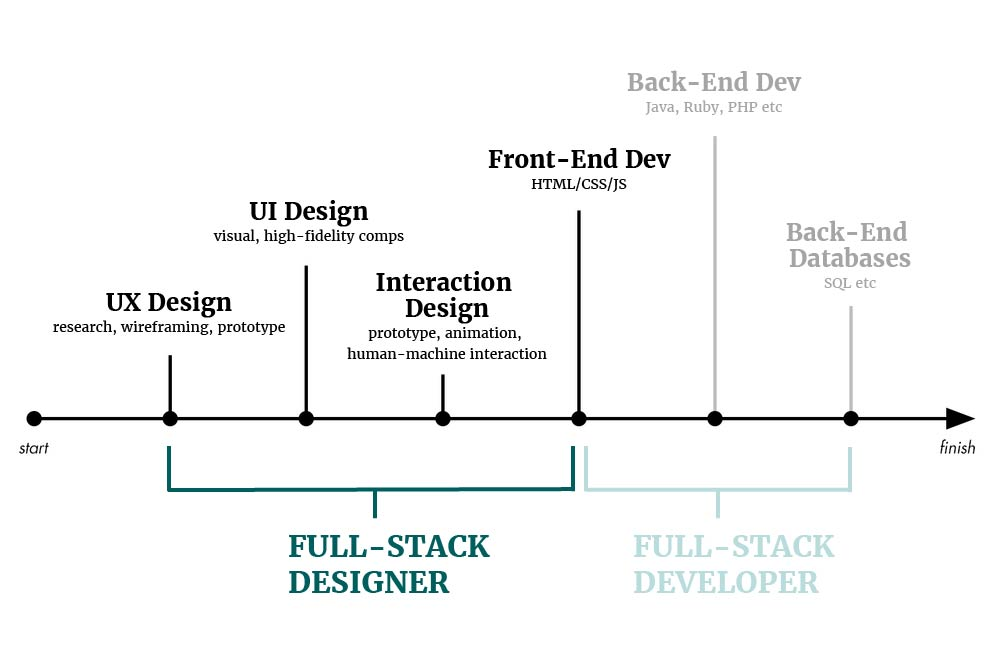
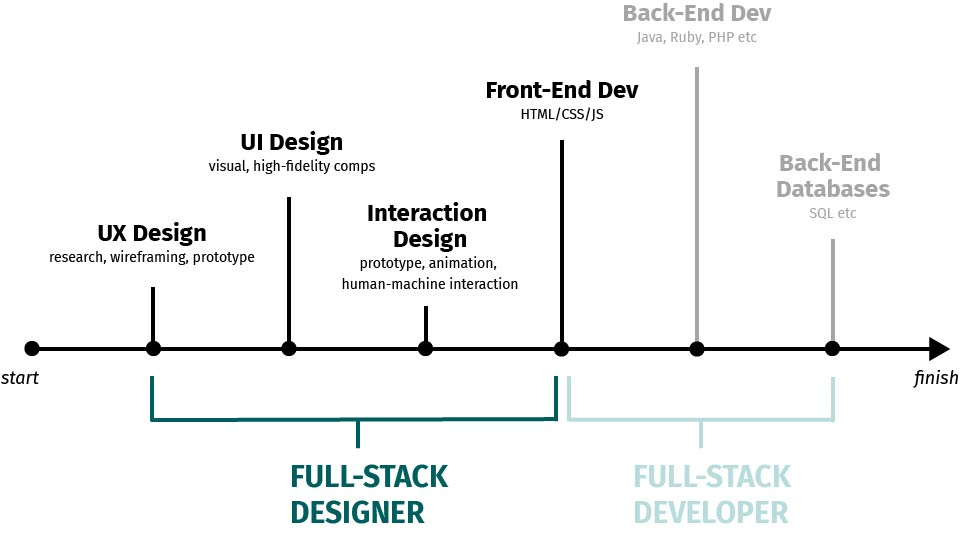
changed font

Changed region(s): [[0.0, 0.0, 1.0, 0.9888]]

diff --git a/index.html b/index.html
@@ -7,7 +7,7 @@
   </head>
   <body>
     <div id='mainContainer'>
-      <section id='cta' class='container'>
+      <section id='cta' class='container bg'>
         <nav>
           <a href='#cta'>Jocelyn</a>
           <div class="topnav-right">
@@ -18,7 +18,7 @@
           </div>
         </nav>
         <div class='tagline'>
-          <h1>Jocelyn Tan</h1>
+          <h1>JOCELYN TAN</h1>
           <p>A Front End Web Developer interested in UX/UI<br>based in Singapore</p>
         </div>
       </section>
@@ -29,20 +29,20 @@
           <p>After that, I did an internship where I helped create a data visualization dashboard for Kantar market research agency based on their purchase funnel data. I honed my skills on Javascript architecture as well as code optimization.</p>
           <p>Visuals make me excited and thus I am happy creating images on Photoshop / Illustrator and animating websites with Javascript.
           I am always catching up on the latest web technologies and learning about interaction design.</p>
-          <img src='/images/designer.jpg' />
         </div>
         <div class='rightColumn'>
           <p>In my free time I play on my digital piano, learn foreign languages and fly off to various beaches around South East Asia for water sports.</p>
-          <div class='image'>
+          <img src='/images/designer.jpg' />
+          <!-- <div class='image'>
             <p>Thalassophile (n.) Lover of the sea</p>
-          </div>
+          </div> -->
         <div>
       </section>
-      <section id='skills' class='container'>
+      <section id='skills' class='container bg'>
       </section>
       <section id='portfolio' class='container'>
       </section>
-      <footer id='contact' class='container'>
+      <footer id='contact' class='container bg'>
       </footer>
     </div>
     <script src="/jquery-3.3.1.min.js"></script>

diff --git a/style.css b/style.css
@@ -14,13 +14,15 @@ html, body {
 .container {
   padding: 2% 8%;
 }
+.bg {
+  background-color: #E7F3F3;
+}
 
 /* Navigation bar */
 nav > a {
   float: left;
   text-decoration: none;
   font-size: 1.3rem;
-  font-family: 'Merriweather', serif;
   padding: 1% 2% 1% 0;
 }
 nav .topnav-right {
@@ -32,7 +34,6 @@ nav .topnav-right a {
   text-decoration: none;
   font-size: 1.3rem;
   font-weight: 500;
-  font-family: 'Merriweather', serif;
   color: black;
   margin: 0 5%;
   position: relative;
@@ -57,10 +58,11 @@ nav .topnav-right a:hover::before{
   transform: scaleX(1);
 }
 
+/* CTA section */
 #cta {
   height: 100vh;
-  background-color: #E7F3F3;
   position: relative;
+  font-family: 'Fira Sans', sans-serif;
 }
 .tagline {
   position:absolute;
@@ -73,36 +75,30 @@ nav .topnav-right a:hover::before{
 }
 .tagline p {
   font-size: 2rem;
-  font-weight: 200;
 }
 
+/* about section */
 #about {
   height: 100vh;
-  font-size: 1.2rem
+  font-size: 1.2rem;
+  font-family: 'Fira Sans', sans-serif;
+  font-weight: 300;
 }
 .leftColumn {
   float: left;
   width: 47%;
-  line-height:1.4;
-}
-.leftColumn img {
-  width: 100%
+  line-height:1.6;
 }
 .rightColumn {
   float: right;
   width: 47%;
-  line-height:1.4;
+  line-height:1.6;
 }
-.rightColumn .image {
-  width: 80%;
-  height: 250px;
-  background-size: cover;
-  background-image: linear-gradient(to bottom, rgba(0, 0, 0, 0), rgba(0, 0, 0, 0.6) ), url("../images/snorkeling.jpeg");
-  position: relative;
+.rightColumn img {
+  width: 100%
 }
-.rightColumn .image p {
-  color: #fff;
-  position: absolute;
-  bottom: 2%;
-  left: 5%;
+
+/* skills section */
+#skills {
+  clear:both;
 }
